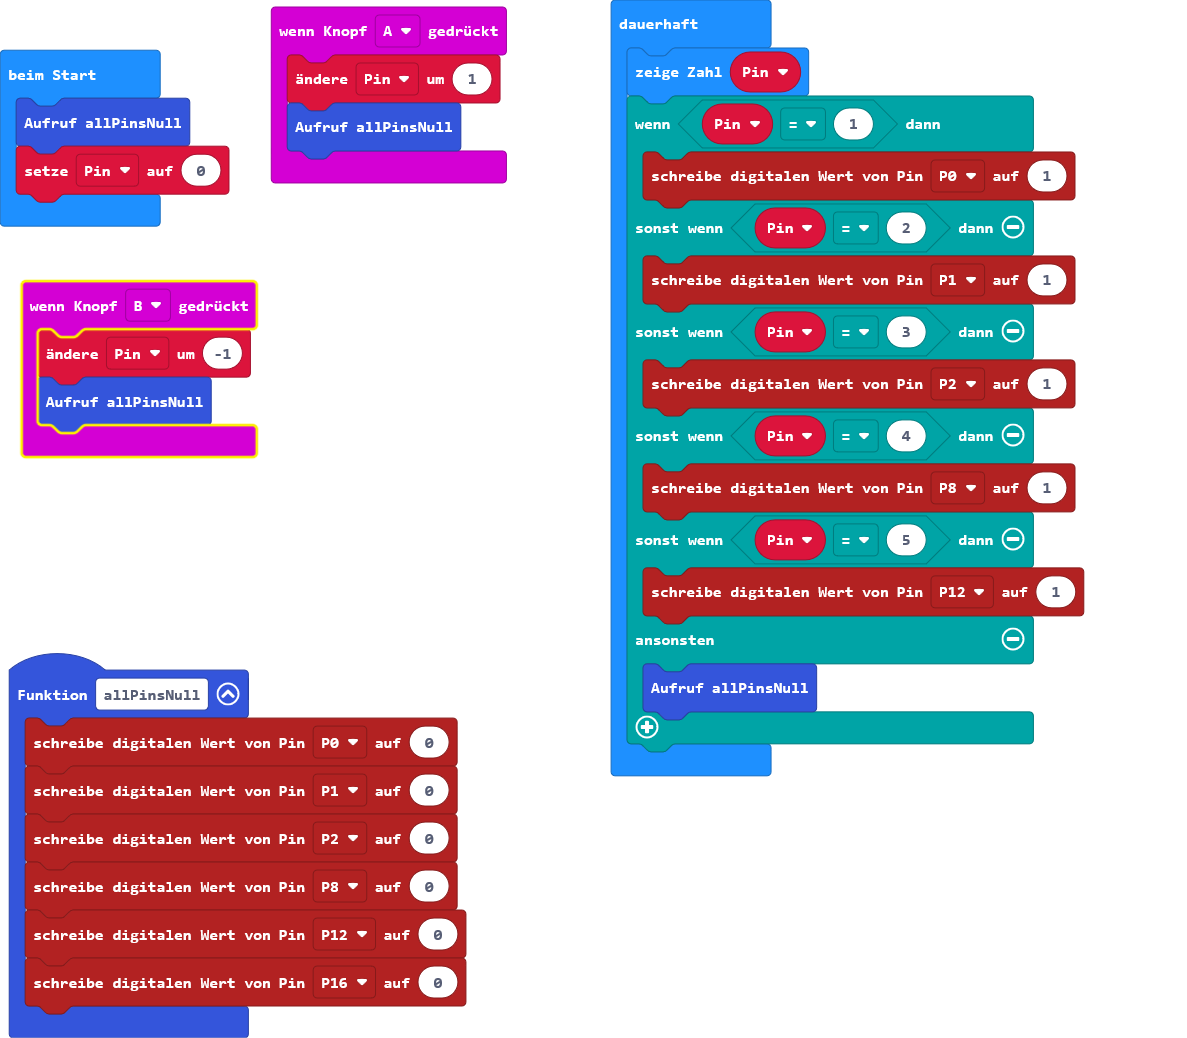
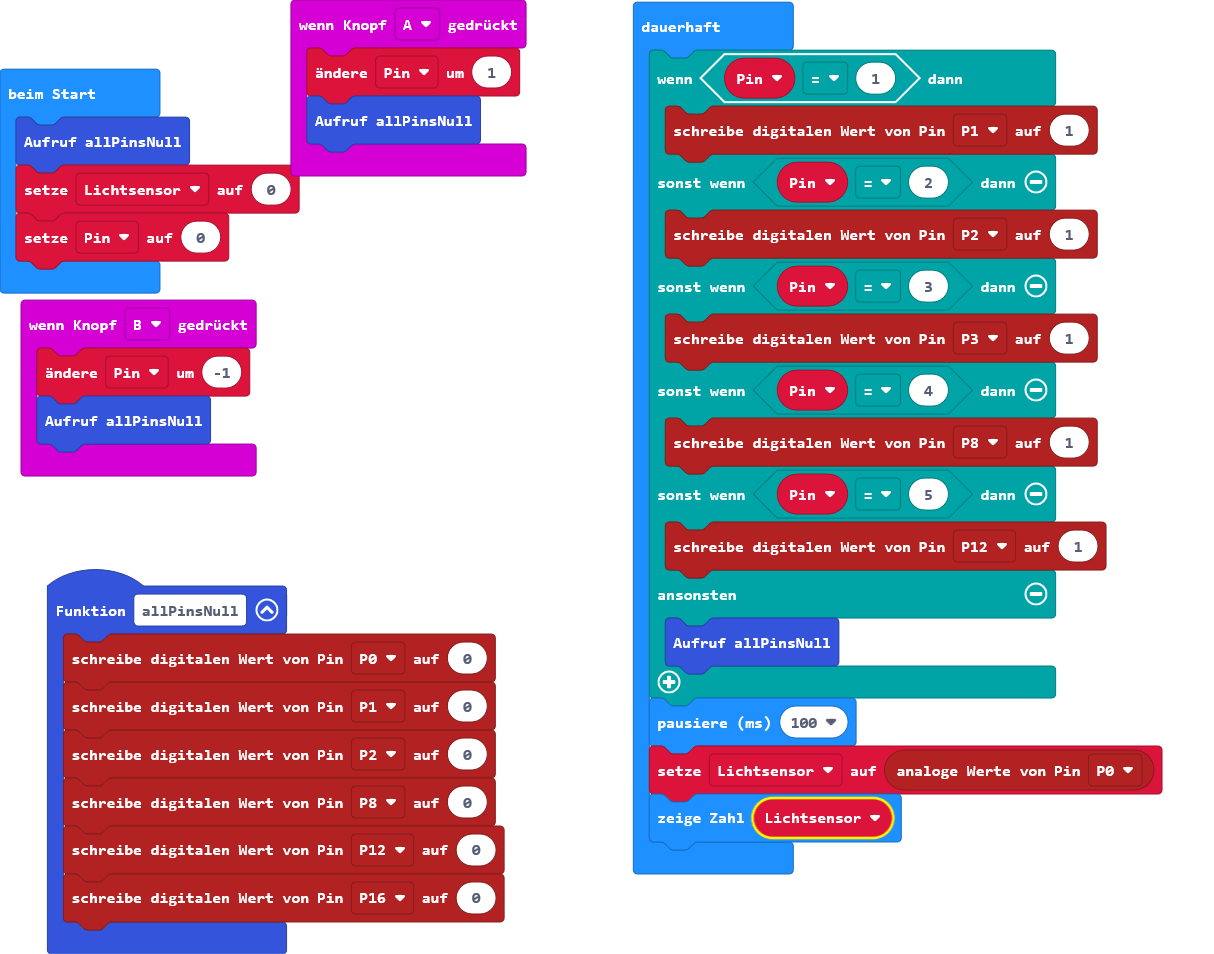
Read light sensor depending on the pin selected

diff --git a/main.ts b/main.ts
@@ -15,15 +15,15 @@ function allPinsNull () {
     pins.digitalWritePin(DigitalPin.P16, 0)
 }
 allPinsNull()
+let Lichtsensor = 0
 let Pin = 0
 basic.forever(function () {
-    basic.showNumber(Pin)
     if (Pin == 1) {
-        pins.digitalWritePin(DigitalPin.P0, 1)
-    } else if (Pin == 2) {
         pins.digitalWritePin(DigitalPin.P1, 1)
-    } else if (Pin == 3) {
+    } else if (Pin == 2) {
         pins.digitalWritePin(DigitalPin.P2, 1)
+    } else if (Pin == 3) {
+        pins.digitalWritePin(DigitalPin.P3, 1)
     } else if (Pin == 4) {
         pins.digitalWritePin(DigitalPin.P8, 1)
     } else if (Pin == 5) {
@@ -31,4 +31,7 @@ basic.forever(function () {
     } else {
         allPinsNull()
     }
+    basic.pause(100)
+    Lichtsensor = pins.analogReadPin(AnalogPin.P0)
+    basic.showNumber(Lichtsensor)
 })
